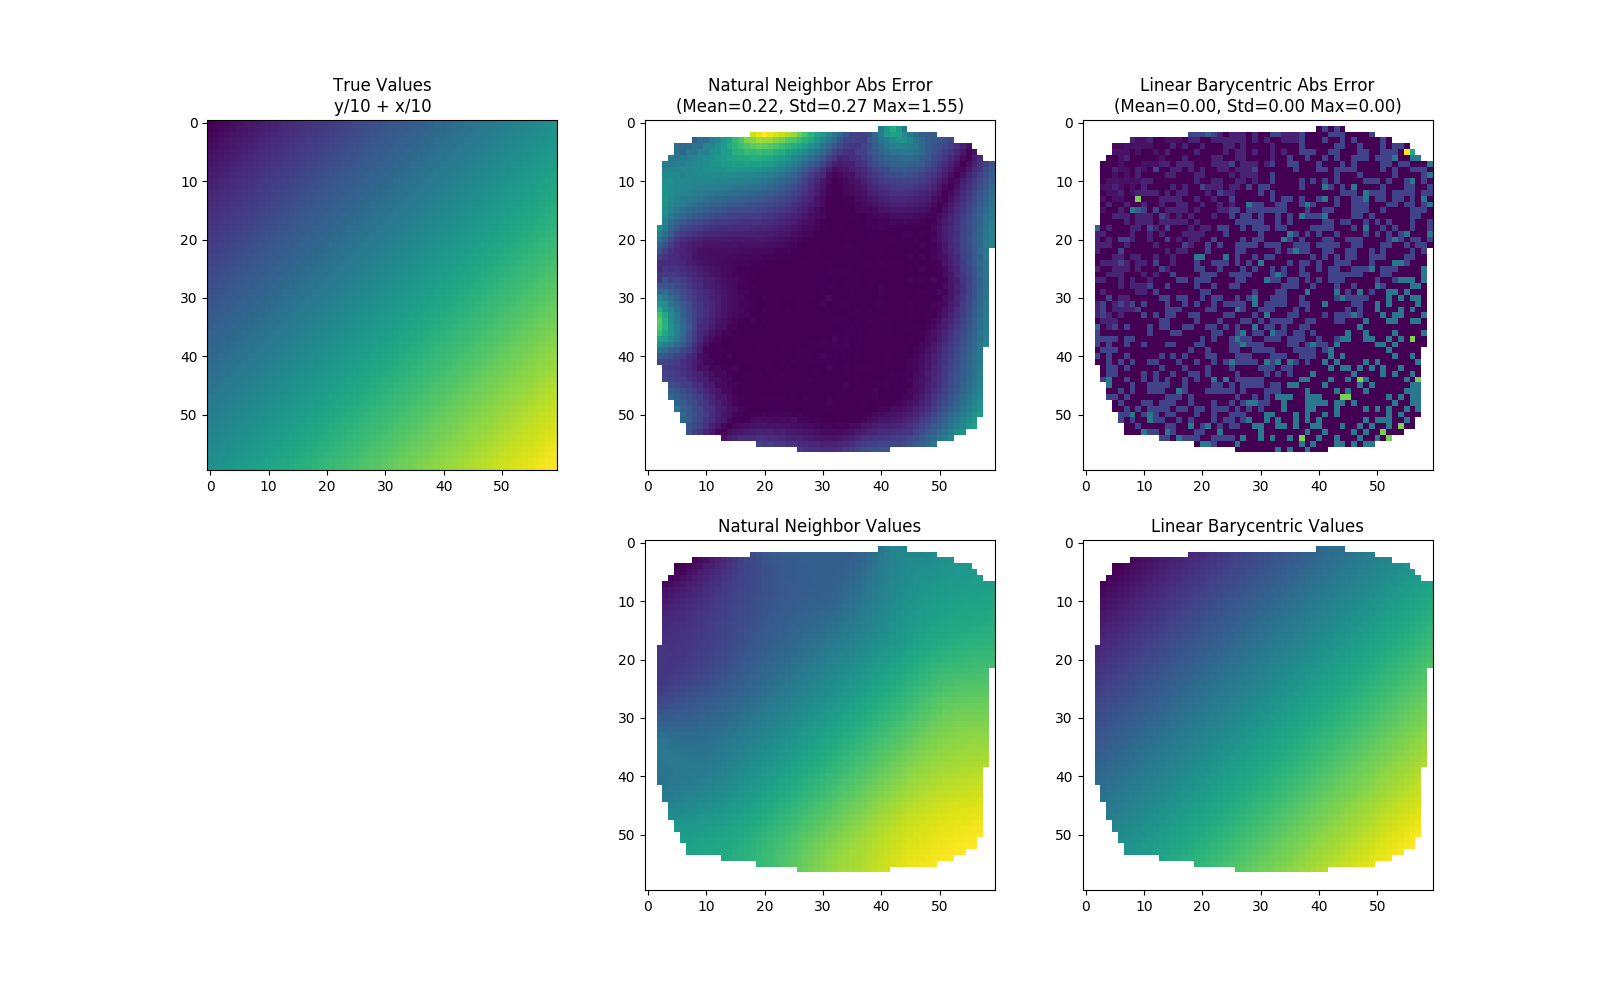
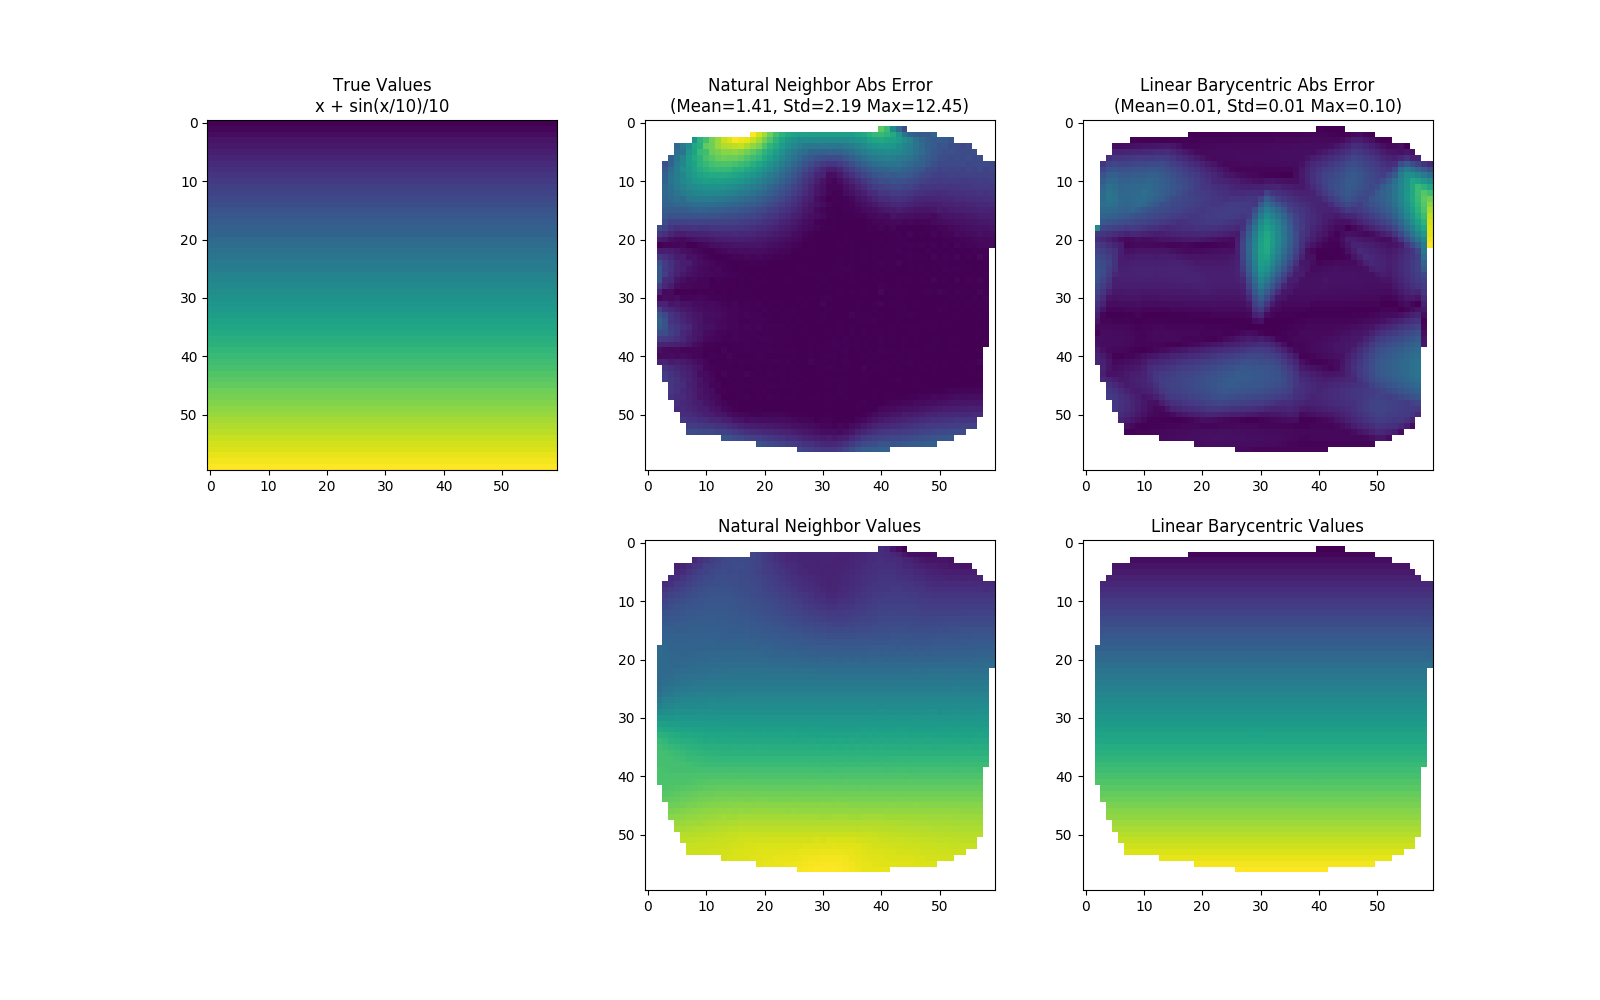
Add slight non-linearity to non-linear case

diff --git a/demo/demo.py b/demo/demo.py
@@ -87,7 +87,7 @@ if __name__ == '__main__':
     )
 
     compare_interp_for_func(
-        (lambda x, y, z: y / 10 + x / 10),
-        'y/10 + x/10',
+        (lambda x, y, z: x + np.sin(x / 10)/10),
+        'x + sin(x/10)/10',
         'linear_comparison.png',
     )
